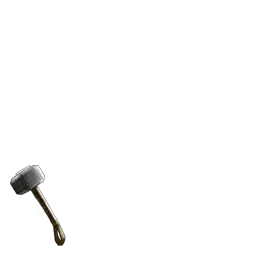
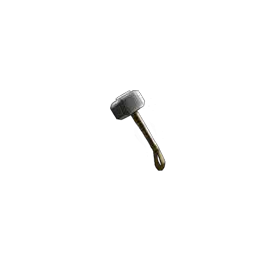
add move left and right sprites when walking. Streamline spinning special attacks

Changed region(s): [[0.3714, 0.3143, 0.6, 0.6286], [0.0286, 0.5714, 0.2571, 0.8857]]

diff --git a/js/players.js b/js/players.js
@@ -1,7 +1,5 @@
-var xOff = -125;
-var yOff = -100;
-
 function Player(heroNumber, indexNum) {
+  var imgOff = [-125, -100];
   this.heroNumber = heroNumber;
   this.startingX = 90;
   this.startingY = 230;
@@ -45,7 +43,7 @@ function Player(heroNumber, indexNum) {
 
   this.heroSelect();
   this.direction = 0;
-  this.radius = 25;
+  this.radius = 70;
   this.damagedColor;
   this.gcd = 0;
   this.charBlocking = false;
@@ -56,43 +54,58 @@ function Player(heroNumber, indexNum) {
   //this.show is called from the draw function and is executed every frame
   this.show = function() {
 
-    //change color of player hitbox shape to see if player is getting hit.
-    if (this.damagedColor > 0) {
-      fill(255,0,0);
-      this.damagedColor--;
-    } else if (this.isNPC === true) {
-      fill(51,153,255);
-    } else {
-      fill(255,128,0);
-    }
+  //change color of player hitbox shape to see if player is getting hit.
+  if (this.damagedColor > 0) {
+    fill(255,0,0);
+    this.damagedColor--;
+  } else if (this.isNPC === true) {
+    fill(51,153,255);
+  } else {
+    fill(255,128,0);
+  }
 
 
-    //player sprite countdown each frame of the game, 0 defaults the the player nuetral position.
-    if (this.charBlocking===false && this.spriteTime > 0) {
-      // console.log(this.spriteTime + ' ' + this.charBlocking);
-      this.spriteTime -= 1;
-    }
-    this.globalCD = function() {
-      this.gcd -= 1;
-    }
+  //player sprite countdown each frame of the game, 0 defaults the the player nuetral position.
+  if (this.charBlocking===false && this.spriteTime > 0) {
+    // console.log(this.spriteTime + ' ' + this.charBlocking);
+    this.spriteTime -= 1;
+  }
+  if (this.direction > 0) {
+    this.spriteChange(5,3)
+  }
+  if (this.direction < 0) {
+    this.spriteChange(4,3)
+  }
 
-    if (this.spriteTime === 0){
-      this.sprite = 0;
-    }
+  this.globalCD = function() {
+    this.gcd -= 1;
+  }
+
+  if (this.spriteTime === 0){
+    this.sprite = 0;
+  }
+
   //checks to see the sprite value of the player and change the displayed sprite img.
-    if (this.sprite === 0) {
-      image(heroSprites[heroNumber].neutral, (this.x + xOff), (this.y + yOff));
-      ellipse(this.x,this.y,this.radius,this.radius);
-    } else if (this.sprite === 1) {
-      image(heroSprites[heroNumber].attack, (this.x + xOff), (this.y + yOff));
-      ellipse(this.x,this.y,this.radius,this.radius);
-    } else if (this.sprite === 2) {
-      image(heroSprites[heroNumber].special, (this.x + xOff), (this.y + yOff));
-      ellipse(this.x,this.y,this.radius,this.radius);
-    } else if (this.sprite === 3) {
-      image(heroSprites[heroNumber].block, (this.x + xOff), (this.y + yOff));
-      ellipse(this.x,this.y,this.radius,this.radius);
-    }
+  if (this.sprite === 0) {
+    image(heroSprites[heroNumber].neutral, (this.x + imgOff[0]), (this.y + imgOff[1]));
+  } else if (this.sprite === 1) {
+    image(heroSprites[heroNumber].attack, (this.x + imgOff[0]), (this.y + imgOff[1]));
+  } else if (this.sprite === 2) {
+    image(heroSprites[heroNumber].special, (this.x + imgOff[0]), (this.y + imgOff[1]));
+  } else if (this.sprite === 3) {
+    image(heroSprites[heroNumber].block, (this.x + imgOff[0]), (this.y + imgOff[1]));
+  } else if (this.sprite === 4) {
+    image(heroSprites[heroNumber].moveLeft, (this.x + imgOff[0]), (this.y + imgOff[1]));
+  } else if (this.sprite === 5) {
+    image(heroSprites[heroNumber].moveRight, (this.x + imgOff[0]), (this.y + imgOff[1]));
+  } else if (this.sprite === 6) {
+    image(heroSprites[heroNumber].hit, (this.x + imgOff[0]), (this.y + imgOff[1]));
+  } else if (this.sprite === 7) {
+    image(heroSprites[heroNumber].portrait, (this.x + imgOff[0]), (this.y + imgOff[1]));
+  } else if (this.sprite === 8) {
+    image(heroSprites[heroNumber].jump, (this.x + imgOff[0]), (this.y + imgOff[1]));
+  }
+  ellipse(this.x,this.y,this.radius,this.radius);
   }
 
   //function sets the player's sprite index for a certain number of frames
@@ -103,7 +116,6 @@ function Player(heroNumber, indexNum) {
 
   //basic punching attack
   this.punch = function() {
-
     if (this.gcd === 0) {
       this.gcd =+ this.attackSpeed;
       var collided = false;
@@ -119,13 +131,11 @@ function Player(heroNumber, indexNum) {
           this.power = constrain(this.power, 0, this.powerMax);
           collided = false;
         }
-
       }
     }
   }
 
   //player shoots and updates the sprite to it's special img sprite
-
   this.shoot = function() {
     if (this.rangeCost <= this.power && this.gcd === 0) {
       this.gcd =+ this.attackSpeed;
@@ -153,7 +163,6 @@ function Player(heroNumber, indexNum) {
     var block = this.blockingRoll(baseDam);
     dmg = dmgDam - dmgDef - block;
     console.log("Damage: " + dmg + " Attack: " + dmgDam + " Defense: " + dmgDef + " Block: " + block + " | base dam :" + baseDam + " playerhit index:" + playerI);
-
     return dmg;
   }
 
@@ -218,9 +227,7 @@ function Player(heroNumber, indexNum) {
 
   //move left and right
   this.moveLeftRight = function(direction) {
-    // if (this.direction !== direction) {
-      this.direction = direction;
-    // }
+    this.direction = direction;
   }
 
   this.edges = function() {

diff --git a/js/special.js b/js/special.js
@@ -1,10 +1,10 @@
-var imgOff = [-100, -180];
 
 function Special(player, attackIndex, retAtt) {
+  var imgOff = [140, 140];
   this.playerIndex = player.indexNum;
   this.heroNumber = player.heroNumber;
   this.x = player.x;
-  this.y = player.y;
+  this.y = player.y+40;
   this.l = 170;
   this.w = 25;
   this.damage = player.rangeAttack;
@@ -20,8 +20,8 @@ function Special(player, attackIndex, retAtt) {
     [ "Throw",  12, false, false,   false ],
     ["Boomer",   9,  true, false,       3 ],
     ["Return",  20, false, false,   false ],
-    ["Boomer",   9,  true,  true,       5 ],
-    ["Return",  20, false,  true,   false ]
+    ["Boomer",   9,  true,  false,       5 ],
+    ["Return",  20, false,  false,   false ]
   ];
   // console.log(attackIndex);
   //if the attack is a return attack from the rangetype meaning another attack already preceded it.
@@ -46,6 +46,7 @@ function Special(player, attackIndex, retAtt) {
     this.attackIndex = attackIndex;
   }
 
+  //
 
   //use the special attack in the correct direction
   if (player.indexNum === 0) {
@@ -57,18 +58,23 @@ function Special(player, attackIndex, retAtt) {
   //rotate the image if the this.spin is true
   var angle = 0;
   this.spin = function() {
-    translate(this.x,this.y);
+    translate(this.x - imgOff[0],this.y - imgOff[1]);
     rotate(angle);
-    angle-=25;
-    image(heroSprites[this.heroNumber].range,imgOff[0],imgOff[1]);
+    angle-=30;
+    fill(255);
+    console.log('x: ' + this.x + ' ' + " y: " + this.y + ' ')
+    image(heroSprites[this.heroNumber].range,-imgOff[0],-imgOff[1]);
+    translate(0,0);
   }
 
 
   this.show = function() {
     if (this.toSpin) {
+      this.y = player.y+200;
       this.spin();
+      rotate(0);
     } else {
-      image(heroSprites[this.heroNumber].range,this.x + imgOff[0],this.y + imgOff[1]);
+      image(heroSprites[this.heroNumber].range,this.x - imgOff[0],this.y - imgOff[1]);
     }
     this.time ++;
   }

diff --git a/js/sketch.js b/js/sketch.js
@@ -16,11 +16,11 @@ function setup() {
   canvas.parent('gameBoard');
   angleMode(DEGREES);
 
-  player = new Player(1, players.length);
+  player = new Player(4, players.length);
   players.push(player);
   statBar = new StatBar(player.name, player.hp, player.hpMax, player.power, player.powerMax);
   statBars.push(statBar);
-  player = new Player(5, players.length);
+  player = new Player(6, players.length);
   players.push(player);
   statBar = new StatBar(player.name, player.hp, player.hpMax, player.power, player.powerMax);
   statBars.push(statBar);
@@ -33,11 +33,11 @@ function setup() {
 //this function is called every frame, 30times a sec. Put things that need to be constantly updated in the draw() function
 function draw() {
   background(backdrop, 0,0);
+  translate(0,0);
 
   statBars[0].show(players[0]);
   statBars[1].show(players[1]);
   //loop for specials every frame
-  translate(0,0);
   //loop for players every frame
   for (var i = players.length-1; i >= 0; i--) {
     // if (frameCount % 30 == 0) {//global cooldown counter
@@ -68,6 +68,7 @@ function draw() {
     if (specials[i].toDelete === true) {
       specials.splice(i,1);
     } else {
+      translate(0,0);
       specials[i].move();
       specials[i].show();
     }

diff --git a/js/images.js b/js/images.js
@@ -103,7 +103,7 @@ function preload() {
   loadImage('https://i.imgur.com/VGmDlkr.png'),
   loadImage('https://i.imgur.com/x34SXto.png'),
   loadImage('https://i.imgur.com/4LBlDdv.png'),
-  loadImage('https://i.imgur.com/6PLFZq2.png'),
+  loadImage('https://i.imgur.com/exa7stF.png'),
   loadImage('https://i.imgur.com/carE2jd.png'),
   loadImage('https://i.imgur.com/2bpJBvZ.png'),
   loadImage('https://i.imgur.com/YAPM8qm.png'));
